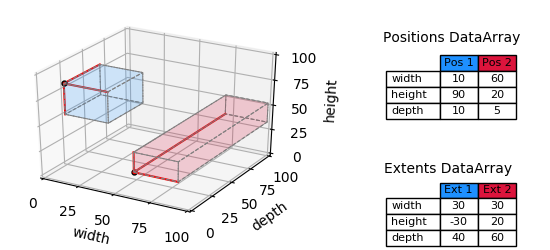
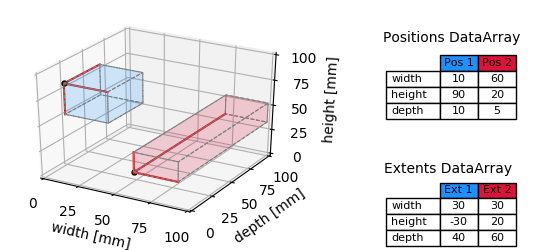
[docs] figures for mtag regions in 2 and 3D

Changed region(s): [[0.5873, 0.224, 0.6182, 0.588], [0.4018, 0.756, 0.5564, 0.98], [0.0927, 0.896, 0.2473, 1.0]]

diff --git a/docs/code/tagging_nd.py b/docs/code/tagging_nd.py
@@ -75,29 +75,64 @@ def plotcubus(axis, pos, ext, color):
     #axis.text(xs + ext[0]/2, ys, zs + ext[2]/2, 'region')
 
 
-
 def plot_2d():
+    positions = [[10, 90], [60, 5]]
+    extents = [[30, -30], [30, 20]]
+    colors = ['dodgerblue', 'crimson']
+
     fig = plt.figure()
     fig.set_size_inches(5.5, 2.5)
-    ax = fig.add_subplot(211)
-    ax.scatter([10, 60], [60, 5], marker=".", s=40, color='r', zorder=2)
+    ax = fig.add_subplot(121)
     ax.set_xlim([0, 100])
+    ax.set_xticks([0, 25, 50, 75, 100])
+    ax.set_xlabel('width [mm]')
     ax.set_ylim([0, 100])
-    rect = patches.Rectangle((10, 90), 30, -30, alpha=0.5, facecolor="dodgerblue", edgecolor='k',
+    ax.set_ylabel('height [mm]')
+    ax.set_yticks([0, 25, 50, 75, 100])
+    rect = patches.Rectangle((10, 90), 30, -30, alpha=0.25, facecolor="dodgerblue", edgecolor='k',
                              lw=0.75, ls='--')
     ax.add_patch(rect)
-    rect = patches.Rectangle((60, 5), 30, 20, alpha=0.5, facecolor="dodgerblue", edgecolor='k',
+    rect = patches.Rectangle((60, 5), 30, 20, alpha=0.25, facecolor="crimson", edgecolor='k',
                              lw=0.75, ls='--')
     ax.add_patch(rect)
-    #ax.annotate('', xy=(x_start + x_extent, y_start), xytext=(x_start, y_start),
-    #            arrowprops=dict(facecolor='silver', connectionstyle="arc3", arrowstyle="->", lw=1.5))
-    #ax.annotate('', xy=(x_start, y_start + y_extent), xytext=(x_start, y_start),
-    #            arrowprops=dict(facecolor='silver', connectionstyle="arc3", arrowstyle="->", lw=1.5 ))
-    #ax.annotate('position (%i, %i)'%(x_start, y_start), xy=(x_start, y_start), xytext=(5, 95),
-    #
-    rows_2d = ["width", "height"]
+    ax.scatter([10, 60], [90, 5], marker=".", s=50, lw=0.25, facecolor="r", edgecolor='k')
+    ax.plot([10, 40], [90, 90], lw=1.5, color='r')
+    ax.plot([10, 10], [90, 60], lw=1.5, color='r')
+    ax.plot([60, 60], [5, 25], lw=1.5, color='r')
+    ax.plot([60, 90], [5, 5], lw=1.5, color='r')
 
-    pass
+    col_labels = ["Pos 1",  "Pos 2"]
+    rows_2d = ["width", "height"]
+    cell_text = [[positions[0][0], positions[1][0]],
+                 [positions[0][1], positions[1][1]]]
+
+    table = matplotlib.table.table(ax, cellText=cell_text, rowLabels=rows_2d,
+                                   colLabels=col_labels,
+                                   cellLoc="center", bbox=[1.6, 0.6, 0.4, 0.3],
+                                   colWidths=[0.2 for c in col_labels],
+                                   colColours=colors)
+    ax.text(130, 100, "Positions DataArray") #, transform=ax.transAxes , fontsize=10)
+    table.auto_set_font_size(False)
+    table.set_fontsize(8)
+
+    col_labels = ["Ext 1",  "Ext 2"]
+    cell_text = [[extents[0][0], extents[1][0]],
+                 [extents[0][1], extents[1][1]]]
+
+    table = matplotlib.table.table(ax, cellText=cell_text, rowLabels=rows_2d,
+                                   colLabels=col_labels,
+                                   cellLoc="center", bbox=[1.6, 0.1, 0.4, 0.3],
+                                   colWidths=[0.2 for c in col_labels],
+                                   colColours=colors)
+    ax.text(130, 100, "Positions DataArray") #, transform=ax.transAxes , fontsize=10)
+    table.auto_set_font_size(False)
+    table.set_fontsize(8)
+    ax.text(130, 45, "Extents DataArray") #, transform=ax.transAxes , fontsize=10)
+
+    ax.spines["top"].set_visible(False)
+    ax.spines['right'].set_visible(False)
+    fig.subplots_adjust(bottom=0.175, left=0.15, right=0.95, top=0.95)
+    fig.savefig("../images/2d_mtag.png")
 
 
 def plot_3d():
@@ -110,12 +145,12 @@ def plot_3d():
 
     ax.set_xlim([0, 100])
     ax.set_xticks([0, 25, 50, 75, 100])
-    ax.set_xlabel('width')
+    ax.set_xlabel('width [mm]')
     ax.set_ylim([0, 100])
     ax.set_yticks([0, 25, 50, 75, 100])
 
-    ax.set_ylabel('depth')
-    ax.set_zlabel('height')
+    ax.set_ylabel('depth [mm]')
+    ax.set_zlabel('height [mm]')
     ax.set_zlim([0, 100])
     ax.set_zticks([0, 25, 50, 75, 100])
 
@@ -149,8 +184,8 @@ def plot_3d():
 
     fig.subplots_adjust(bottom=0.1, left=0., right=0.95, top=0.95)
     fig.savefig("../images/3d_mtag.png")
-    #    plt.show()
 
 
 if __name__ == "__main__":
+    plot_2d()
     plot_3d()
